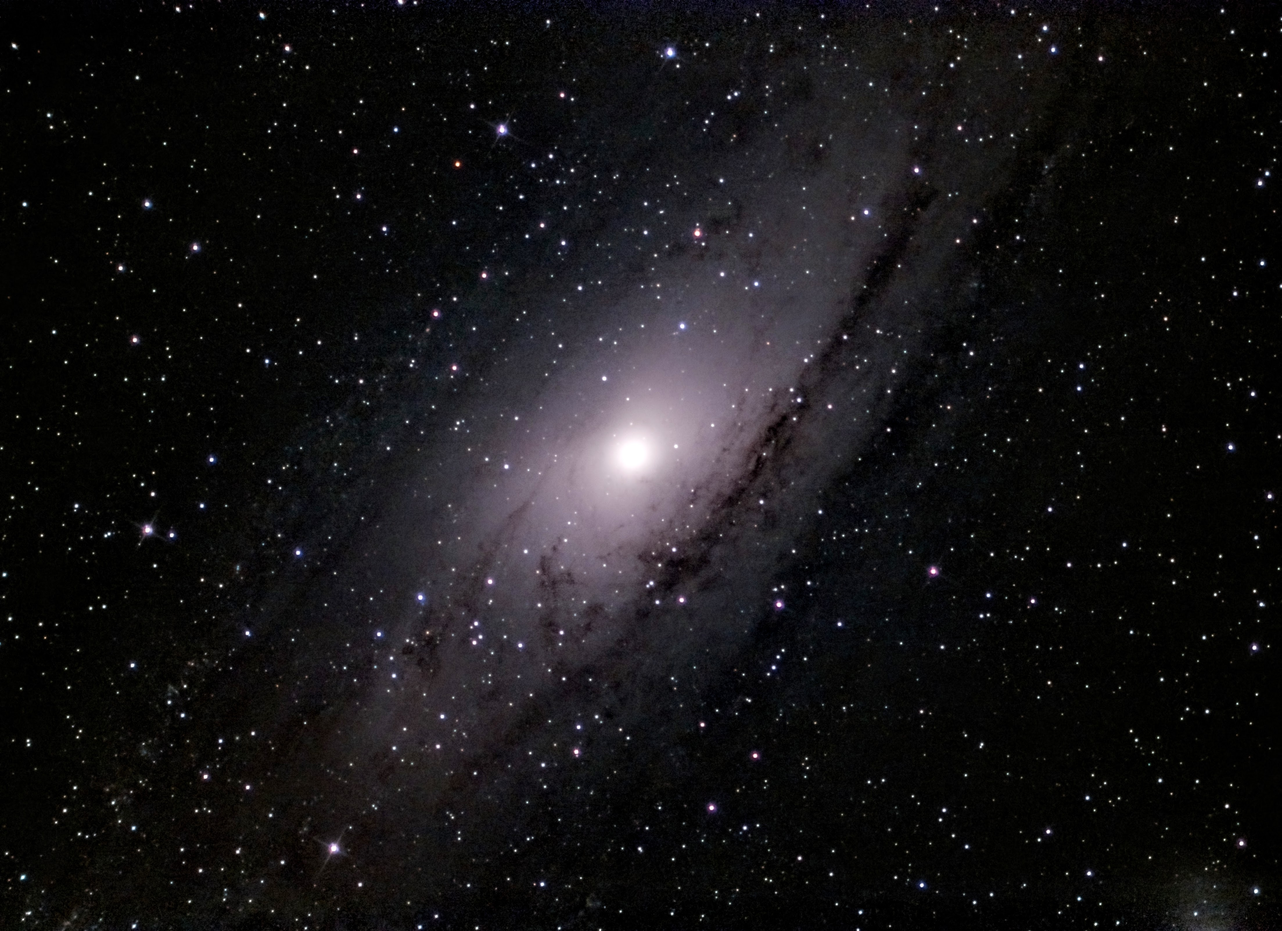
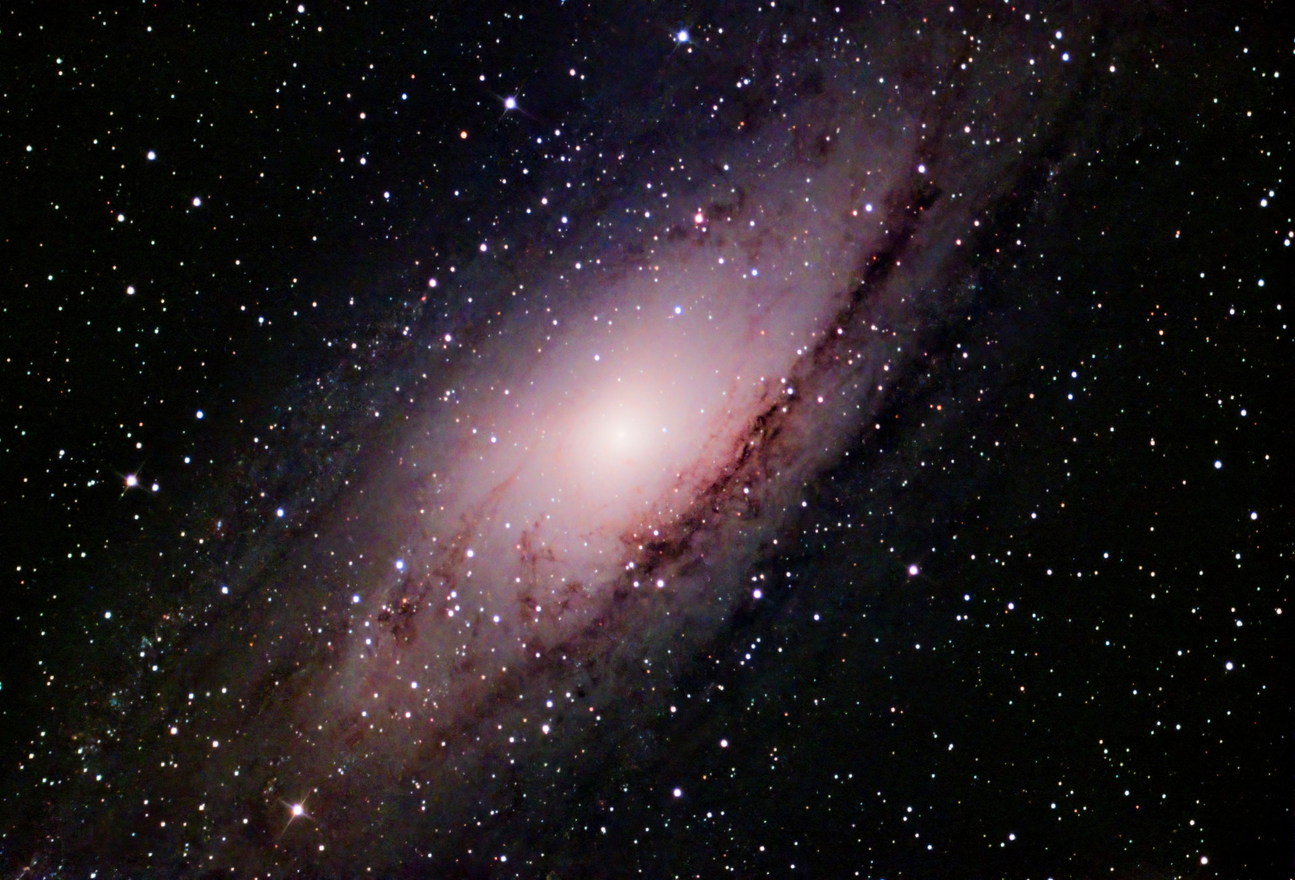
M31 update, slideshow fix, blog image fix, new blog post

diff --git a/assets/js/slideshow.js b/assets/js/slideshow.js
@@ -82,8 +82,6 @@ $(document).ready(function () {
 
     $("#astroheader").text(`Loading ${tracker.deck.length} slides...`);
 
-    let first = true;
-
     // iterate the deck in a random order
     while (tracker.deck.length) {
 
@@ -98,17 +96,14 @@ $(document).ready(function () {
 
             $("#astroheader").text(`${tracker.remaining} remaining of ${tracker.total} slides...`);
 
-            if (first) {
-                $(".carousel .active").removeClass("active");
-                first = false;
-            }
-
             // move the deck from the hidden div to the live carousel
             $(card).remove();
             $("#astroturf").append(card);
 
             if (tracker.remaining < 1) {
 
+                $(".carousel .active").removeClass("active");
+                
                 // turn off the show
                 clearInterval(tracker.interval);
 

diff --git a/_includes/blogimage.html b/_includes/blogimage.html
@@ -12,16 +12,16 @@
     {% assign target = "#" %}
     {% if include.target == true %}
     {% assign target = include.url %}
+    <a href="{{url}}" class="stretched-link" title="{{include.description}}">
     {% endif %}
     <img class="card-img-top mw-25" src="{{url}}" alt="{{include.description}}" title="{{include.description}}">    
     <div class="card-header bg-light text-center">
         <small>
-        {% if include.target == true %}
-        <a href="{{url}}" class="stretch-link" title="{{include.description}}">{{include.description}}</a>
-        {% else %} 
         {{include.description}}
-        {% endif %}
-    </small>
-    </div>                
+        </small>
+    </div>
+    {% if include.target == true %}
+    </a>
+    {% endif %}            
 </div>
 <br/>

diff --git a/assets/css/screen.css b/assets/css/screen.css
@@ -908,7 +908,7 @@ iframe {
 }
 
 .gallery-card {
-    width: 300px;
+    width: 280px;
     height: 100%;
     margin: 3px;
 }

diff --git a/_posts/2021-08-18-planning-mosaics-with-telescopius.md b/_posts/2021-08-18-planning-mosaics-with-telescopius.md
@@ -1,0 +1,134 @@
+---
+layout: post
+title:  "Planning Mosaics with Telescopius and Processing with AstroPixel Processor"
+author: deepskyworkflows
+categories: [ Telescopius, AstroPixel Processor, Mosaic ]
+tags: [ ngc6992, veil nebula, m13 ]
+toc: true
+image: assets/images/2021-08-18/ngc6992mosaicpreview.jpg
+description: "Learn how to set up Telescopius to plan mosaics."
+featured: true
+hide: true
+comments: true
+---
+
+I recently captured an image of the [veil nebula](/gallery/ngc6992-veil-nebula) that required multiple panels to be assembled in a mosaic. I planned it in [Telescopius](https://telescopius.com) with just a few settings. In this post, I'll walk you through how I set it up and processed it.
+
+## Plan the mosaic
+
+Planning the mosaic is more straightforward than I expected. The key is to know the specifications for your telescope, camera and/or eyepiece.
+
+### Configure your telescope
+
+The first step is to configure your telescope. The easiest way I know how is to open any target and scroll down to the "Telescope Simulator" section. There, you can click on "Astrophotography" and the telescope icon, then choose "Add/remove."
+
+{% include blogimage.html url="pickyourscope.jpg" description="Pick your telescope" half=true target=false %}
+
+This takes you to a page with telescopes and lenses, cameras, mounts, eyepieces, and more. Click "add" on telescopes. There, you can enter the key details of aperture, F-number, and focal length (it allows for a range). These are the specs for Stellina:
+
+{% include blogimage.html url="telescopedialog.jpg" description="Enter the details of your telescope" half=true target=false %}
+
+### Configure your lens and/or sensor
+
+The next step is to enter your eyepiece and/or sensor (camera). Stellina only has the sensor, so I enter that information.
+
+{% include blogimage.html url="sensor.jpg" description="Sensor details" half=true target=false %}
+
+### Check the rotation
+
+The trickiest part is figuring out how the image is rotated. With the information entered, I use the query feature to find an object I've already photographed. In this case, I chose [M13: The Great Globular Cluster in Hercules](/gallery/m13-hercules/). It's an easy target to capture in my location and has two distinct, colorful stars for orientation. I scroll down to the Telescope Simulator, click "Astrophotography" then choose my telescope using the telescope icon and my sensor using the camera icon. This will overlay a green "field of view" like this:
+
+{% include blogimage.html url="telescopesimulator.jpg" description="Telescope simulator" half=true target=false %}
+
+Notice the position of the cluster and orientation of the yellow and blue stars. Here's an unprocessed frame from my telescope:
+
+{% include blogimage.html url="m13-preview.jpeg" description="M13 Raw Frame" target=true %}
+
+The orientation and positioning match! If the square is oriented differently, I simply use the rotation slider on the lens dialog to rotate until they match.
+
+### Create the mosaic panels
+
+My target of [NGC6992](/gallery/ngc6992-veil-nebula/) is larger than the field of view. The bottom half is cropped out.
+
+{% include blogimage.html url="ngc6992preview.jpg" description="NGC6992" half=true target=false %} 
+
+Now I can tap the grid icon that initially shows 1x1 to plan my mosaic. You specify the grid dimensions and overlap. I like a good overlap of 20% but it is common to use 5 - 15 percent as well. Once I've reconfigured it to a 1x2 grid, I can scroll the field of view until the nebula fits inside the mosaic. Here are the mosaic settings:
+
+{% include blogimage.html url="mosaicplanner.jpg" description="Mosaic planner" half=true target=false %}
+
+And this is what the field of view looks like:
+
+{% include blogimage.html url="ngc6992mosaicpreview.jpg" description="Mosaic preview" half=true target=false %}
+
+Now I have everything I need to capture the mosaic! It is helpful to toggle on "include center coordinates" as they'll come in handy later (I'll explain).
+
+## Capture the mosaic
+
+I use the coordinates provided in the mosaic planner to create manual targets in Stellina. For Stellina owners, there is an option in the target finder to enter "search with coordinates." 
+
+{% include blogimage.html url="searchwithcoordinates.jpg" description="Search with coordinates" half=true target=false %}
+
+There, I input two targets I call "veil top" and "veil bottom." For larger mosaics I just name the panels by number (i.e., panel 1, panel 2, etc.). I enter the coordinates exactly as they appear in the planner.
+
+{% include blogimage.html url="advancedcontrols.jpg" description="Target entry" half=true target=false %}
+
+Then it's just a matter of pointing and capturing images. I ended up capturing 385 10-second exposures for the "top" frame and 427 for the "bottom."
+
+## Produce the mosaic
+
+With all of the raw materials in place, I could now move on to assembling the mosaic.
+
+### Stack the images
+
+The next step is to stack the images. There are several options to do this (DeepSky Stacker is free, PixInsight and AstroPixel Processor are both paid and licensed products). I prefer AstroPixel Processor. I treated each panel as a simple observation and stacked them using my default settings. The steps at a high level involved:
+
+1. **Load** my light images and my dark images.
+2. **Calibrate** and turn on Cosmetic Correction. I used a "hot pixel kappa" of 6.0.
+3. **Analyse stars** all defaults.
+4. **Register** all defaults.
+5. **Normalize** I prefer to turn off background neutralization and do that myself.
+6. **Integrate** here I tweak two things: I pick 90% of images so some bad ones can get thrown out, and I use Bayer/Drizzle at 3x to produce a high resolution image that I can shrink later.
+
+I configure my settings then go straight to the **Integrate** tab and run them all at once. This produced two images, the "top" and "bottom." 
+
+### Pre-process the panels 
+
+Here is the "top" panel aggressively stretched to reveal a light pollution gradient and noisy edges. 
+
+{% include blogimage.html url="topraw.jpg" description="Raw top panel" target=true %}
+
+My first pass I just combined the panels and the gradient was next to impossible to remove. So, I started over. This time I cropped and applied Automatic Background Extraction to each panel before combining them. Here is the "top" panel artificially stretched again to show the gradient removed.
+
+{% include blogimage.html url="topprocessed.jpg" description="Processed top panel" target=true %}
+
+There are multiple ways to combine the panels, but again I used AstroPixel Processor. I went through the same steps but with different settings.
+
+1. **Load** loaded my two light panels, top and bottom. No darks because they're already calibrated.
+2. **Calibrate** no Cosmetic Correction (already done).
+3. **Analyse stars** all defaults.
+4. **Register** I find changing from quadrilaterals to triangles works better for mosaics. I move scale start to 5 and scale stop to 10. I check "use dynamic distortion correction" and turn off "same camera and optics" (even though it is, this helps to better blend the images). Registration mode goes from "normal" to "mosaic." 
+5. **Normalize** again, no background neutralization.
+6. **Integrate** stack 100% (there's only two images!), set LNC degree to 1st degree with 1 iteration. Check "enable multi-band blending" and slide it to 20% (because the panels overlap by about 20%). Mode is interpolation with a scale of 1.0 because I already scaled the panels.
+
+Here is the mosaic that was output before processing. You can see how well the panels blended.
+
+{% include blogimage.html url="mosaic.jpg" description="Raw mosaic" target=true %}
+
+## Wrapping up
+
+I used PixInsight for post-processing.
+
+1. Rotate
+2. Crop
+3. Dynamic background extraction
+4. Background neutralization
+5. Photometric calibration - this is where I input the "center" coordinates from the mosaic planner to make it easier to plate solve the image
+6. TGV Denoise
+7. Multiscale Linear Transformation on luminance and chroma
+8. Deconvolution
+9. EZ Soft Stretch
+10. Curves transformations
+
+Finally, I exported the panel as a TIFF, reduced the noise in Topaz DeNoise AI, scaled it down to 50% of the size and saved it as a JPG. 
+
+You can see the final result in [the gallery](/gallery/ngc6992-veilnebula).

diff --git a/_posts/2021-07-22-making-mosaics-with-stellina-and-astropixel-processor.md b/_posts/2021-07-22-making-mosaics-with-stellina-and-astropixel-processor.md
@@ -2,12 +2,12 @@
 layout: post
 title:  "Making mosaics with Stellina and AstroPixel Processor: Polaris"
 author: deepskyworkflows
-categories: [ Stellina, AstroPixel Processor ]
-tags: [ mosaic, polaris, stellina, astropixel processor ]
+categories: [ Stellina, AstroPixel Processor, Mosaic ]
+tags: [ polaris ]
 toc: true
 image: assets/images/2021-07-22/polaris-annotated.jpeg
 description: "Learn how to use Stellina to reframe observations and produce panels for larger images, then use AstroPixel Processor to combine them into a mosaic."
-featured: true
+featured: false
 comments: true
 ---
 

diff --git a/_gallery/m31-andromeda.md b/_gallery/m31-andromeda.md
@@ -9,13 +9,13 @@ length: "400mm"
 aperture: "80mm"
 folder: m31
 exposure: 10
-lights: 502
-sessions: 3
-firstCapture: 2021-06-30
-lastCapture: 2021-07-28
-ra: "0h 42m 42.5s"
-dec: "+41° 16' 42.695"
-size: "60.72 x 44.102 arcmin"
-radius: "0.625 deg"
+lights: 900
+sessions: 5
+firstCapture: 2021-03-16
+lastCapture: 2021-08-18
+ra: "0h 42m 37.7s"
+dec: "+41° 16' 21.778"
+size: "61.283 x 41.657 arcmin"
+radius: "0.618 deg"
 scale: "0.825 arcsec/pixel"
 ---
